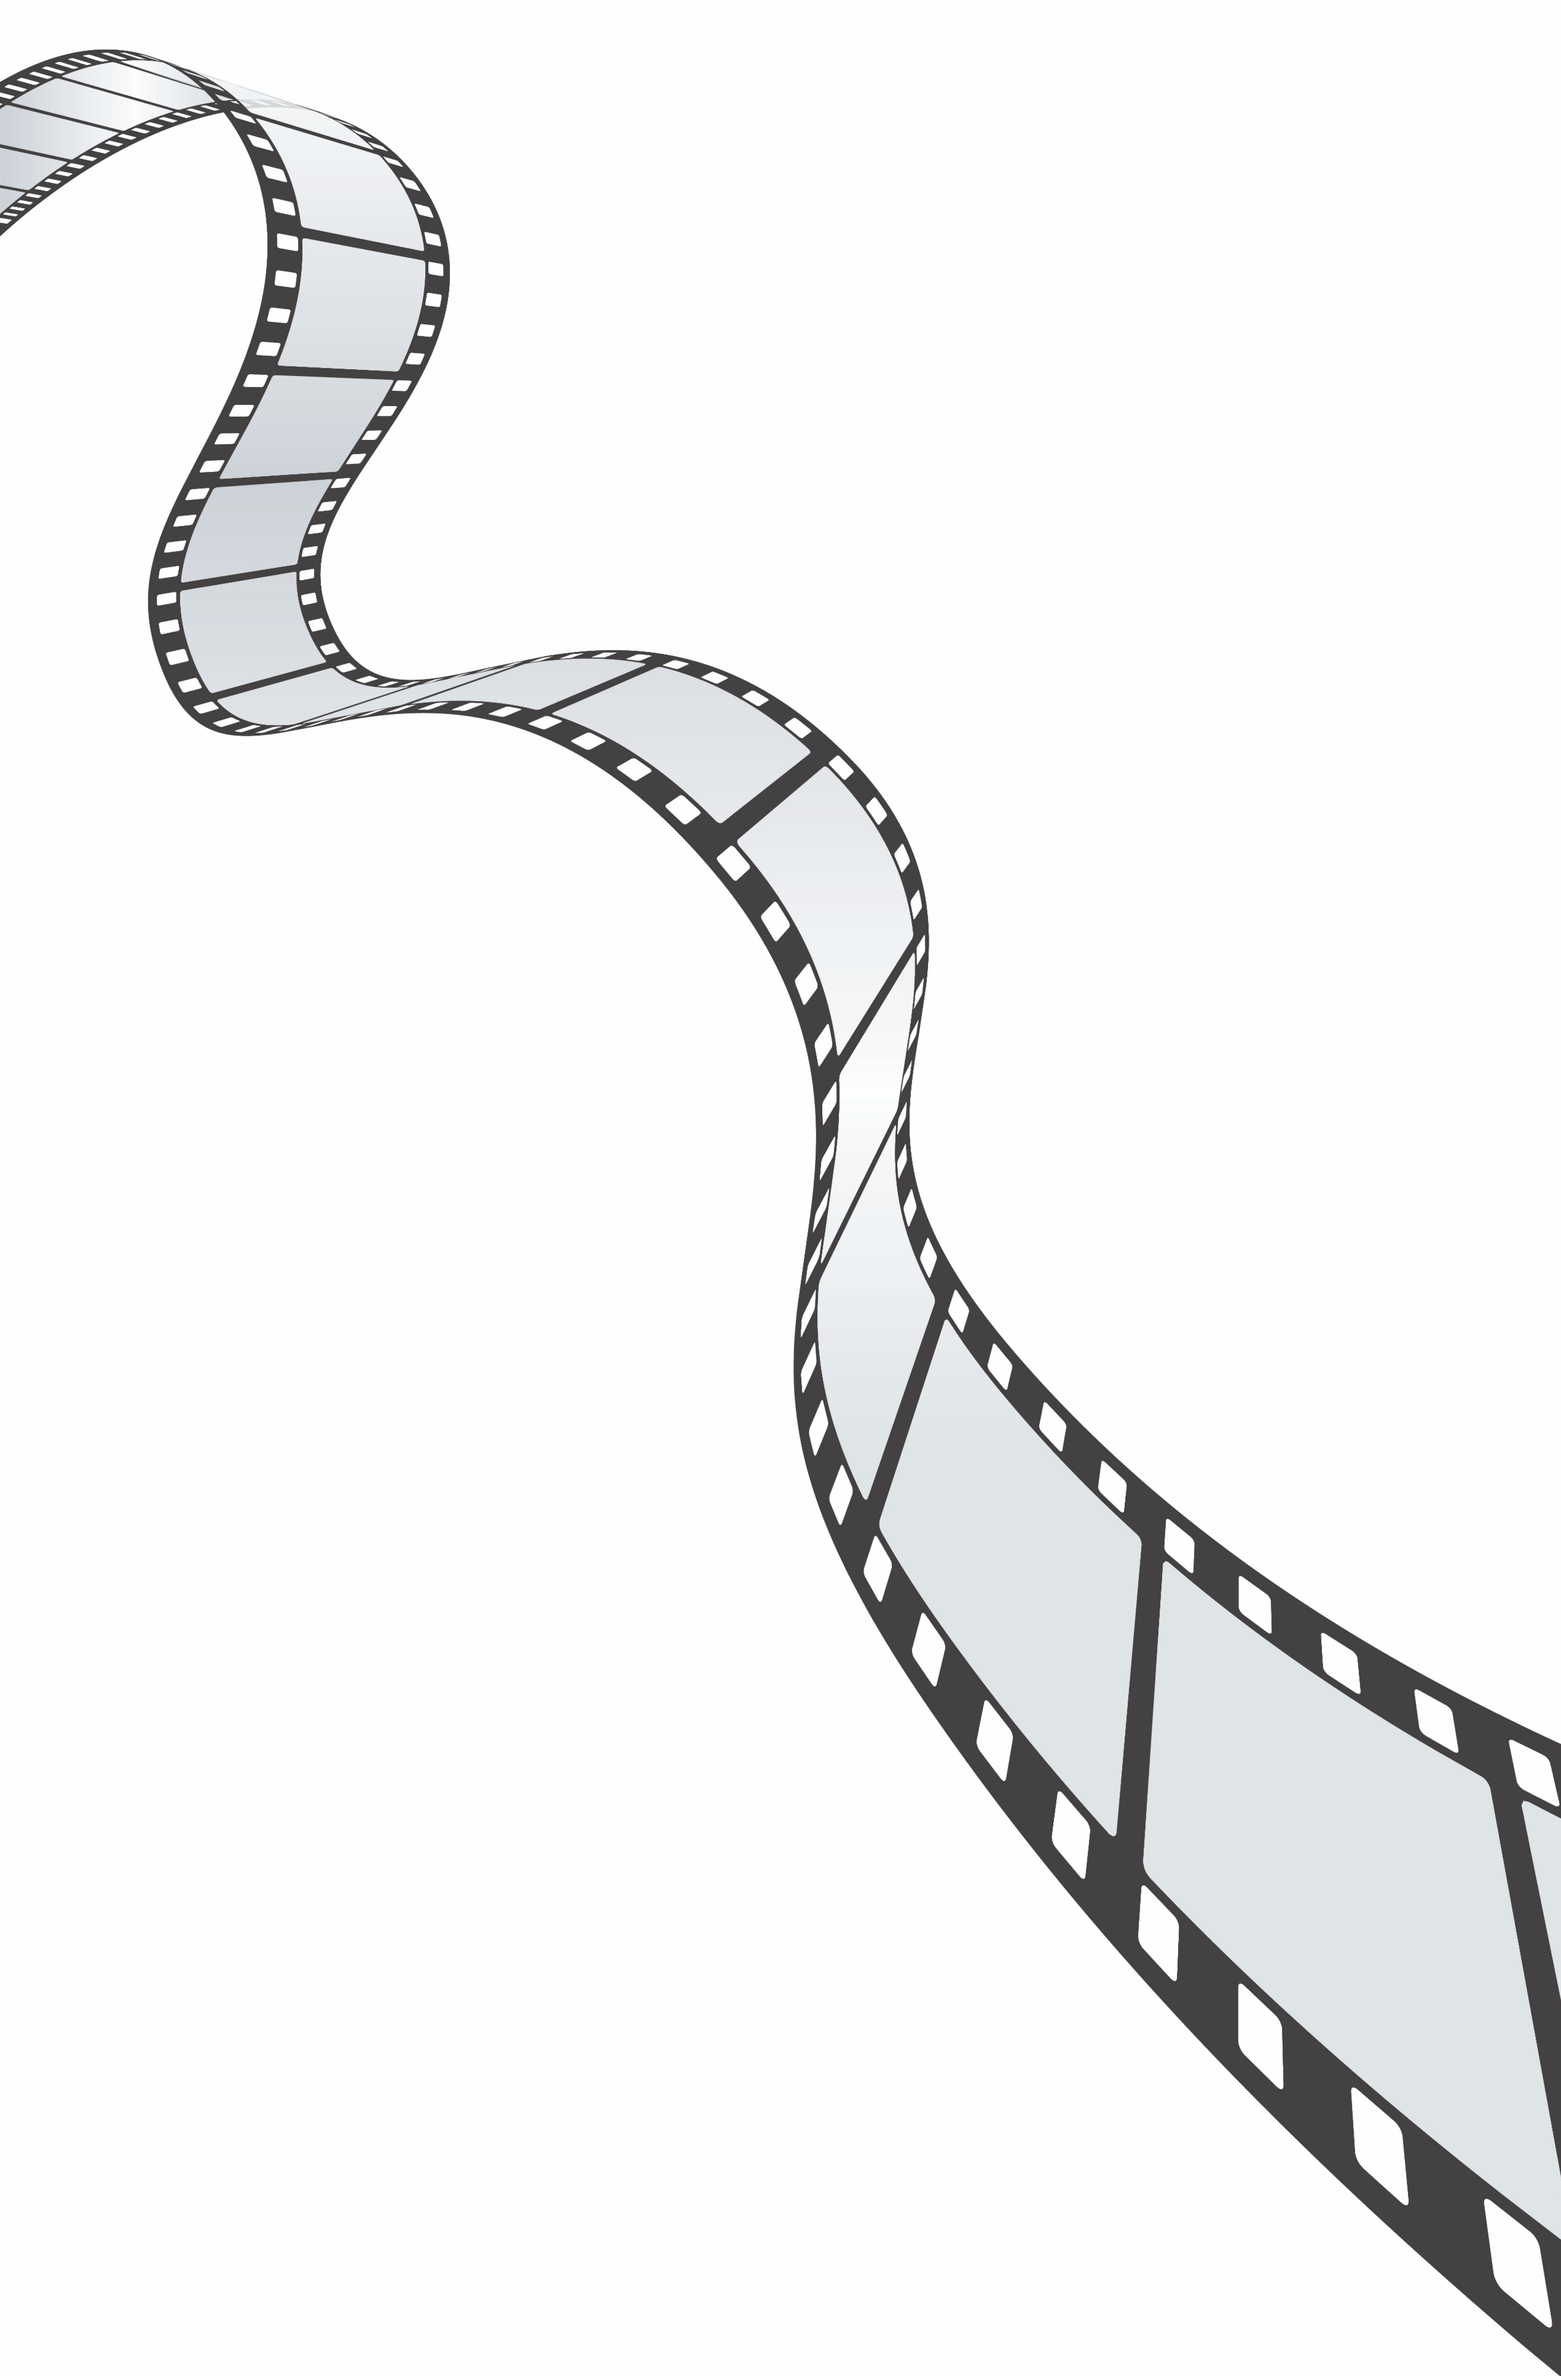
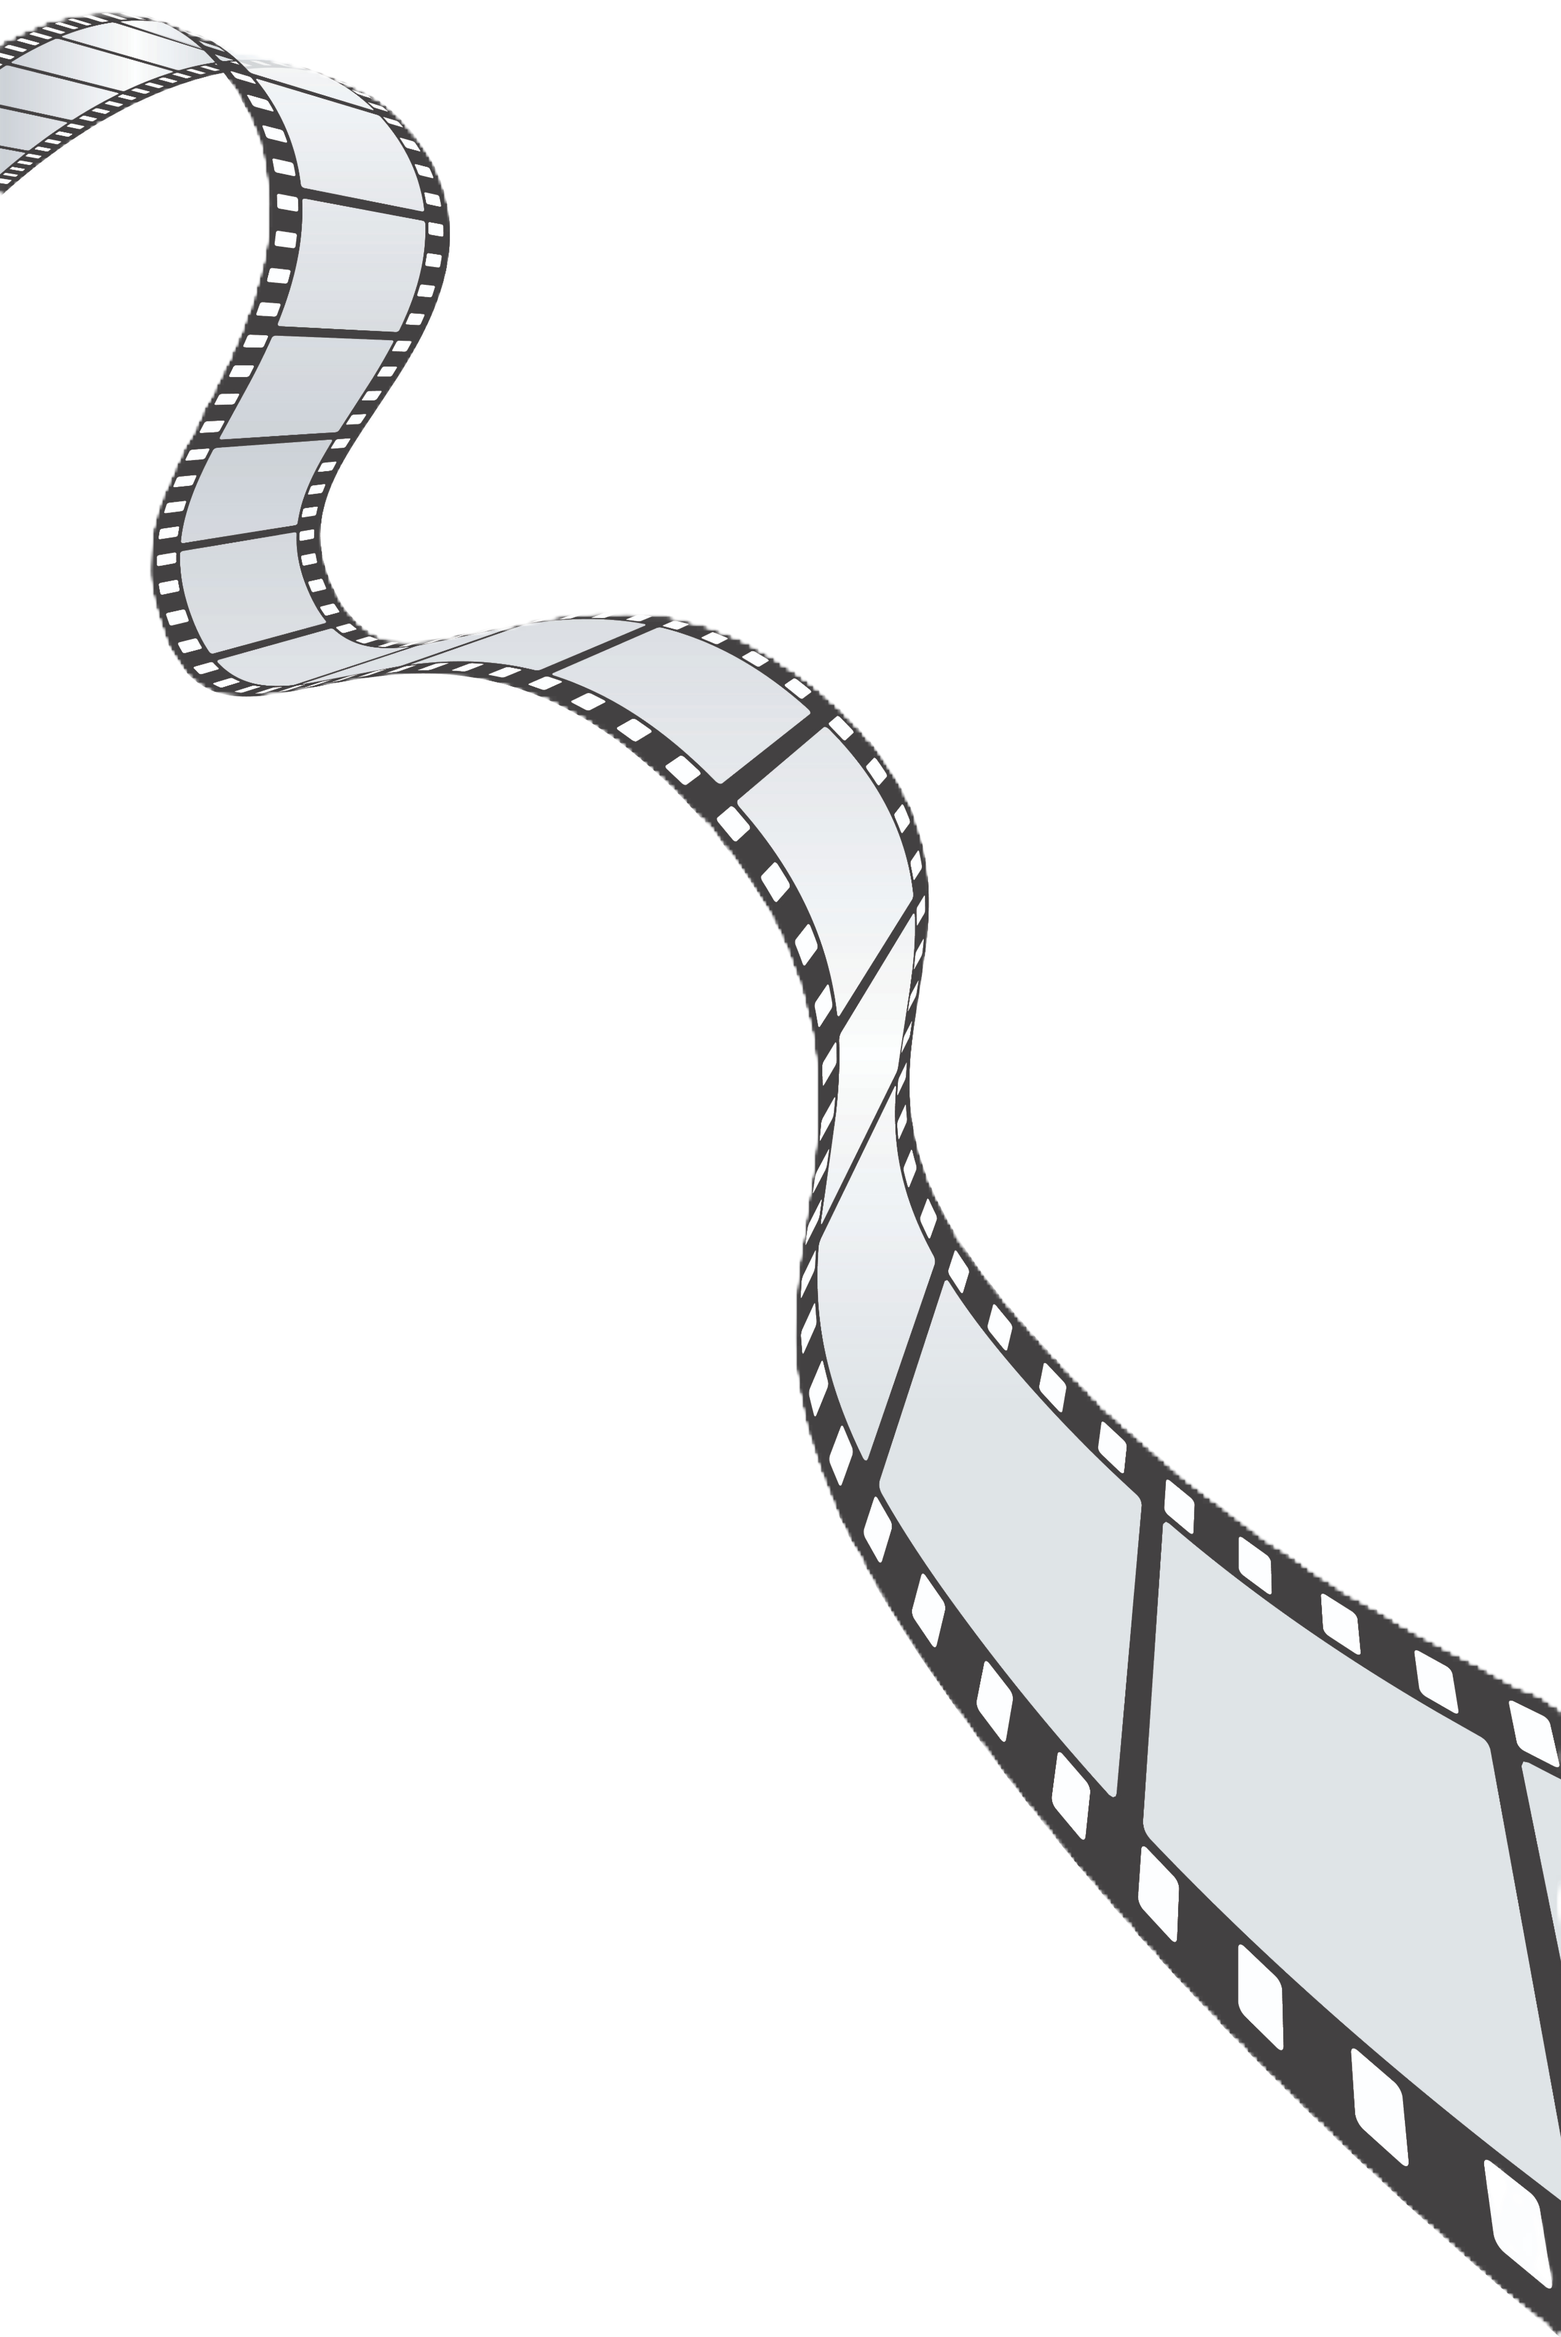
Refactor layout and styles in About and Header components; enhance Navbar with scroll detection and update font styles

diff --git a/portfolio_Website/src/pages/About.tsx b/portfolio_Website/src/pages/About.tsx
@@ -1,23 +1,31 @@
 function About() {
   return (
-    <div className=" flex flex-col bg-red-600 ">
-      <div className="">
-        <h3 className="text-white text-2xl m-5 mt-20 font-Krona-One">
-          About Me
-        </h3>
-        <p className="text-white text-sm m-5 font-Krona-One">
-          I am a passionate and dedicated film director with a keen eye for
-          storytelling and visual aesthetics.With a strong background in
-          cinemativ artds and years of experience,I strive to create compelling
-          narratives that captivate and inspire audiences.My portfolio showcases
-          a variety of projects ranging from short films to full-length
-          features,commercials and music videos.
-        </p>
-      </div>
-      <div className="flex space-x-3 justify-center">
-        <img src="/img3.png " alt="img3 " className=" w-1/3" />
-        <img src="/img4.png " alt="img4 " className=" w-1/3" />
-        <img src="/img5.png " alt=" img5" className=" w-1/3" />
+    <div className="w-full mb-80">
+      <div className="max-h-screen pt-44 flex flex-col bg-[rgb(255,3,3,.8)] ">
+        <div className="space-y-16 px-10">
+          <h3 className="text-white text-5xl m-5 mt-20 font-Krona-One">
+            About Me
+          </h3>
+          <p className="text-white text-2xl font-Kufam m-5">
+            I am a passionate and dedicated film director with a keen eye for
+            storytelling and visual aesthetics.With a strong background in
+            cinemativ artds and years of experience,I strive to create compelling
+            narratives that captivate and inspire audiences.My portfolio showcases
+            a variety of projects ranging from short films to full-length
+            features,commercials and music videos.
+          </p>
+        </div>
+        <div className="grid grid-cols-3 mt-36">
+          <div className="flex justify-start">
+            <img src="/img3.png" alt="img3" className="h-96 w-[98%]" />
+          </div>
+          <div className="flex justify-center">
+            <img src="/img4.png" alt="img4" className="h-96 w-[98%]" />
+          </div>
+          <div className="flex justify-end">
+            <img src="/img5.png" alt="img5" className="h-96 w-[98%]" />
+          </div>
+        </div>
       </div>
     </div>
   );

diff --git a/portfolio_Website/index.html b/portfolio_Website/index.html
@@ -3,30 +3,12 @@
   <head>
     <meta charset="UTF-8" />
     <link rel="icon" type="image/svg+xml" href="/favicon.ico" />
-    <link rel="preconnect" href="https://fonts.googleapis.com" />
-    <link rel="preconnect" href="https://fonts.gstatic.com" crossorigin />
+    
+    <link rel="preconnect" href="https://fonts.googleapis.com">
+    <link rel="preconnect" href="https://fonts.gstatic.com" crossorigin>
     <link
-      href="https://fonts.googleapis.com/css2?family=Krona+One&display=swap"
-      rel="stylesheet"
-    />
-    <link rel="preconnect" href="https://fonts.googleapis.com" />
-    <link rel="preconnect" href="https://fonts.gstatic.com" crossorigin />
-    <link
-      href="https://fonts.googleapis.com/css2?family=Krona+One&family=Montserrat:ital,wght@0,100..900;1,100..900&display=swap"
-      rel="stylesheet"
-    />
-    <link rel="preconnect" href="https://fonts.googleapis.com" />
-    <link rel="preconnect" href="https://fonts.gstatic.com" crossorigin />
-    <link
-      href="https://fonts.googleapis.com/css2?family=Inter:ital,opsz,wght@0,14..32,100..900;1,14..32,100..900&family=Krona+One&family=Montserrat:ital,wght@0,100..900;1,100..900&display=swap"
-      rel="stylesheet"
-    />
-    <link rel="preconnect" href="https://fonts.googleapis.com" />
-    <link rel="preconnect" href="https://fonts.gstatic.com" crossorigin />
-    <link
-      href="https://fonts.googleapis.com/css2?family=Inter:ital,opsz,wght@0,14..32,100..900;1,14..32,100..900&family=Just+Another+Hand&family=Krona+One&family=Montserrat:ital,wght@0,100..900;1,100..900&display=swap"
-      rel="stylesheet"
-    />
+      href="https://fonts.googleapis.com/css2?family=Inter:ital,opsz,wght@0,14..32,100..900;1,14..32,100..900&family=Just+Another+Hand&family=Krona+One&family=Kufam:ital,wght@0,400..900;1,400..900&family=Montserrat:ital,wght@0,100..900;1,100..900&family=Roboto:ital,wght@0,100;0,300;0,400;0,500;0,700;0,900;1,100;1,300;1,400;1,500;1,700;1,900&display=swap"
+      rel="stylesheet">
     <meta name="viewport" content="width=device-width, initial-scale=1.0" />
     <title>Anirban Chakraborti</title>
   </head>

diff --git a/portfolio_Website/src/index.css b/portfolio_Website/src/index.css
@@ -65,6 +65,13 @@
   }
 }
 
+.kufam-abc123 {
+  font-family: "Kufam", serif;
+  font-optical-sizing: auto;
+  font-weight: 400;
+  font-style: normal;
+}
+
 .krona-one-regular {
   font-family: "Krona One", serif;
   font-weight: 400;
@@ -73,6 +80,92 @@
 
 .just-another-hand-regular {
   font-family: "Just Another Hand", serif;
+  font-weight: 400;
+  font-style: normal;
+}
+
+.roboto-thin {
+  font-family: "Roboto", serif;
+  font-weight: 100;
+  font-style: normal;
+}
+
+.roboto-light {
+  font-family: "Roboto", serif;
+  font-weight: 300;
+  font-style: normal;
+}
+
+.roboto-regular {
+  font-family: "Roboto", serif;
+  font-weight: 400;
+  font-style: normal;
+}
+
+.roboto-medium {
+  font-family: "Roboto", serif;
+  font-weight: 500;
+  font-style: normal;
+}
+
+.roboto-bold {
+  font-family: "Roboto", serif;
+  font-weight: 700;
+  font-style: normal;
+}
+
+.roboto-black {
+  font-family: "Roboto", serif;
+  font-weight: 900;
+  font-style: normal;
+}
+
+.roboto-thin-italic {
+  font-family: "Roboto", serif;
+  font-weight: 100;
+  font-style: italic;
+}
+
+.roboto-light-italic {
+  font-family: "Roboto", serif;
+  font-weight: 300;
+  font-style: italic;
+}
+
+.roboto-regular-italic {
+  font-family: "Roboto", serif;
+  font-weight: 400;
+  font-style: italic;
+}
+
+.roboto-medium-italic {
+  font-family: "Roboto", serif;
+  font-weight: 500;
+  font-style: italic;
+}
+
+.roboto-bold-italic {
+  font-family: "Roboto", serif;
+  font-weight: 700;
+  font-style: italic;
+}
+
+.roboto-black-italic {
+  font-family: "Roboto", serif;
+  font-weight: 900;
+  font-style: italic;
+}
+
+.montserrat-custom {
+  font-family: "Montserrat", serif;
+  font-optical-sizing: auto;
+  font-weight: 400;
+  font-style: normal;
+}
+
+.inter-custom {
+  font-family: "Inter", serif;
+  font-optical-sizing: auto;
   font-weight: 400;
   font-style: normal;
 }

diff --git a/portfolio_Website/src/pages/Navbar.tsx b/portfolio_Website/src/pages/Navbar.tsx
@@ -1,17 +1,39 @@
+import { useState, useEffect } from 'react';
+
 function Navbar() {
+  const [isScrolled, setIsScrolled] = useState(false);
+
+  useEffect(() => {
+    const handleScroll = () => {
+      if (window.scrollY > window.innerHeight * (1 / 3)) {
+        setIsScrolled(true);
+      } else {
+        setIsScrolled(false);
+      }
+    };
+
+    window.addEventListener('scroll', handleScroll);
+    return () => window.removeEventListener('scroll', handleScroll);
+  }, []);
+
   return (
-    <div className="flex justify-between items-center p-5  border-b-3 border-gray-800  rounded-xl shadow-lg">
-      <h1 className=" font-Krona-One font-semibold text-left text-5xl ml-10">
-        Director
-      </h1>
-      <img
-        src="/navbar.png"
-        alt="navbar"
-        height={25}
-        width={25}
-        className="mr-10"
-      />
-    </div>
+    <nav
+      className={`w-full bg-[rgba(255,255,255,0.9)] border border-gray-800 right-0 z-10 rounded-b-xl shadow-lg transition-transform duration-700 ease-in-out fixed top-0 transform ${isScrolled ? '-translate-y-full' : 'translate-y-0'
+        }`}
+    >
+      <div className="flex justify-between items-center p-5">
+        <h1 className="font-Krona-One font-semibold text-left text-3xl ml-10">
+          Director
+        </h1>
+        <img
+          src="/navbar.png"
+          alt="navbar"
+          height={25}
+          width={25}
+          className="mr-10"
+        />
+      </div>
+    </nav>
   );
 }
 

diff --git a/portfolio_Website/src/pages/Header.tsx b/portfolio_Website/src/pages/Header.tsx
@@ -1,7 +1,7 @@
 function Header() {
   return (
-    <div className="flex flex-row ">
-      <div className="flex justify-center items-center w-1/2">
+    <div className="flex flex-row z-10 justify-between min-h-screen">
+      <div className="flex justify-center items-center px-16">
         <img
           src="/img2.png"
           alt="img2"
@@ -10,14 +10,12 @@ function Header() {
           className="rounded-sm px-15 py-5 mt-10"
         />
       </div>
-      <div className="flex flex-col justify-center items-center w-1/2">
-        <div>
-          <p className=" font-Montserrat text-4xl font-bold text-black mr-5">
+      <div className="flex flex-col w-1/3 justify-center items-start">
+        <div className="flex flex-col justify-center items-start">
+          <p className=" font-Montserrat text-5xl font-bold text-black">
             ANIRBAN
           </p>
-        </div>
-        <div>
-          <p className=" font-Montserrat text-4xl font-bold text-red-600 ml-20 ">
+          <p className=" font-Montserrat text-5xl font-bold text-red-600">
             CHAKRABORTY
           </p>
         </div>

diff --git a/portfolio_Website/src/App.tsx b/portfolio_Website/src/App.tsx
@@ -6,19 +6,28 @@ import Header from "./pages/Header";
 import Navbar from "./pages/Navbar";
 import Other_works from "./pages/Other_works";
 import Shooting from "./pages/Shooting";
-
+import reel from "/img1.png"
 function App() {
   return (
     <>
-      <div className="flex flex-col h-screen">
-        <Navbar />
-        <Header />
-        <About />
-        <Shooting />
-        <Early_life />
-        <Career />
-        <Film />
-        <Other_works />
+      <div className="flex flex-col gap-10">
+        <div className=" h-auto">
+          <div className="z-10">
+            <Navbar />
+            <Header />
+            <About />
+          </div>
+          <img src={reel} alt="bg" className="border-2 w-full absolute top-5 z-[-1] align-top object-left-top h-[1464px]" />
+        </div>
+
+        <div className="flex flex-col">
+          <Shooting />
+          <Early_life />
+          <Career />
+          <Film />
+          <Other_works />
+        </div>
+
       </div>
     </>
   );

diff --git a/portfolio_Website/tailwind.config.js b/portfolio_Website/tailwind.config.js
@@ -9,6 +9,9 @@ export default {
         Montserrat: ["Montserrat", "sans-serif"],
         Inter: ["Inter", "sans-serif"],
         "figma-hand": ["Just Another Hand", "sans-serif"],
+        Roboto: ["Roboto", "sans-serif"],
+        Kufam: ["Kufam", "sans-serif"],
+        "Just Another Hand": ["Just Another Hand", "sans-serif"],
       },
 
       borderRadius: {
